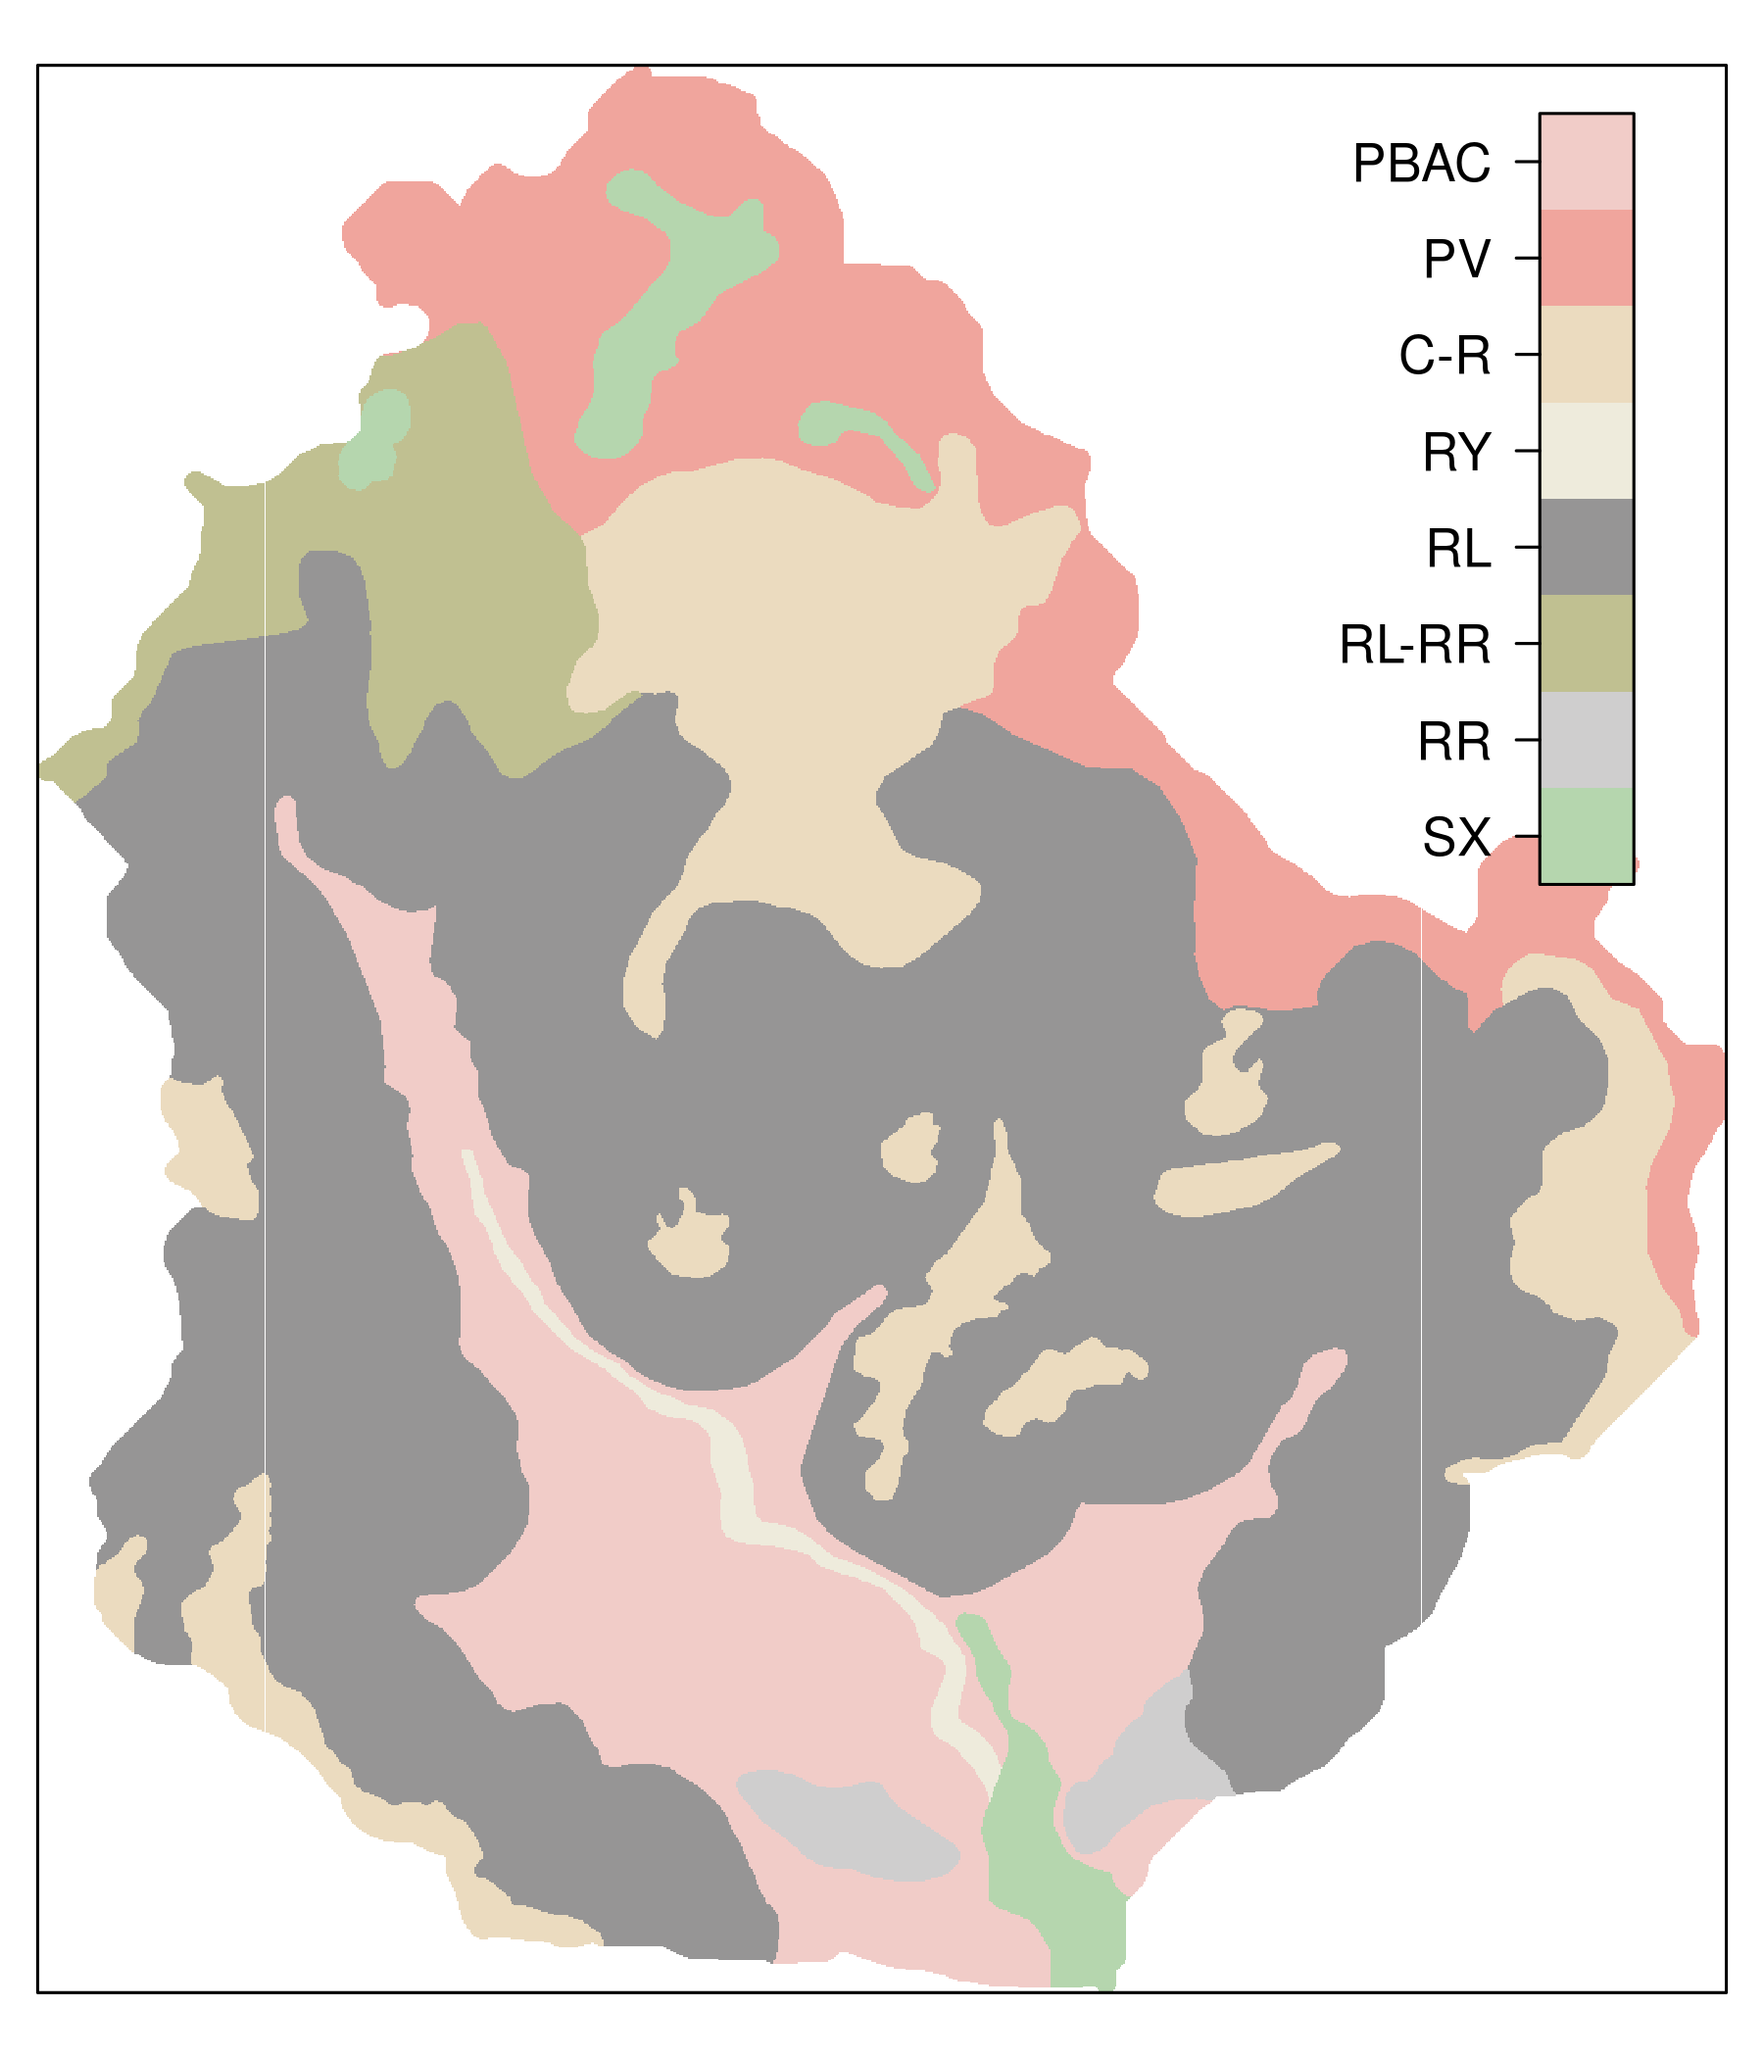
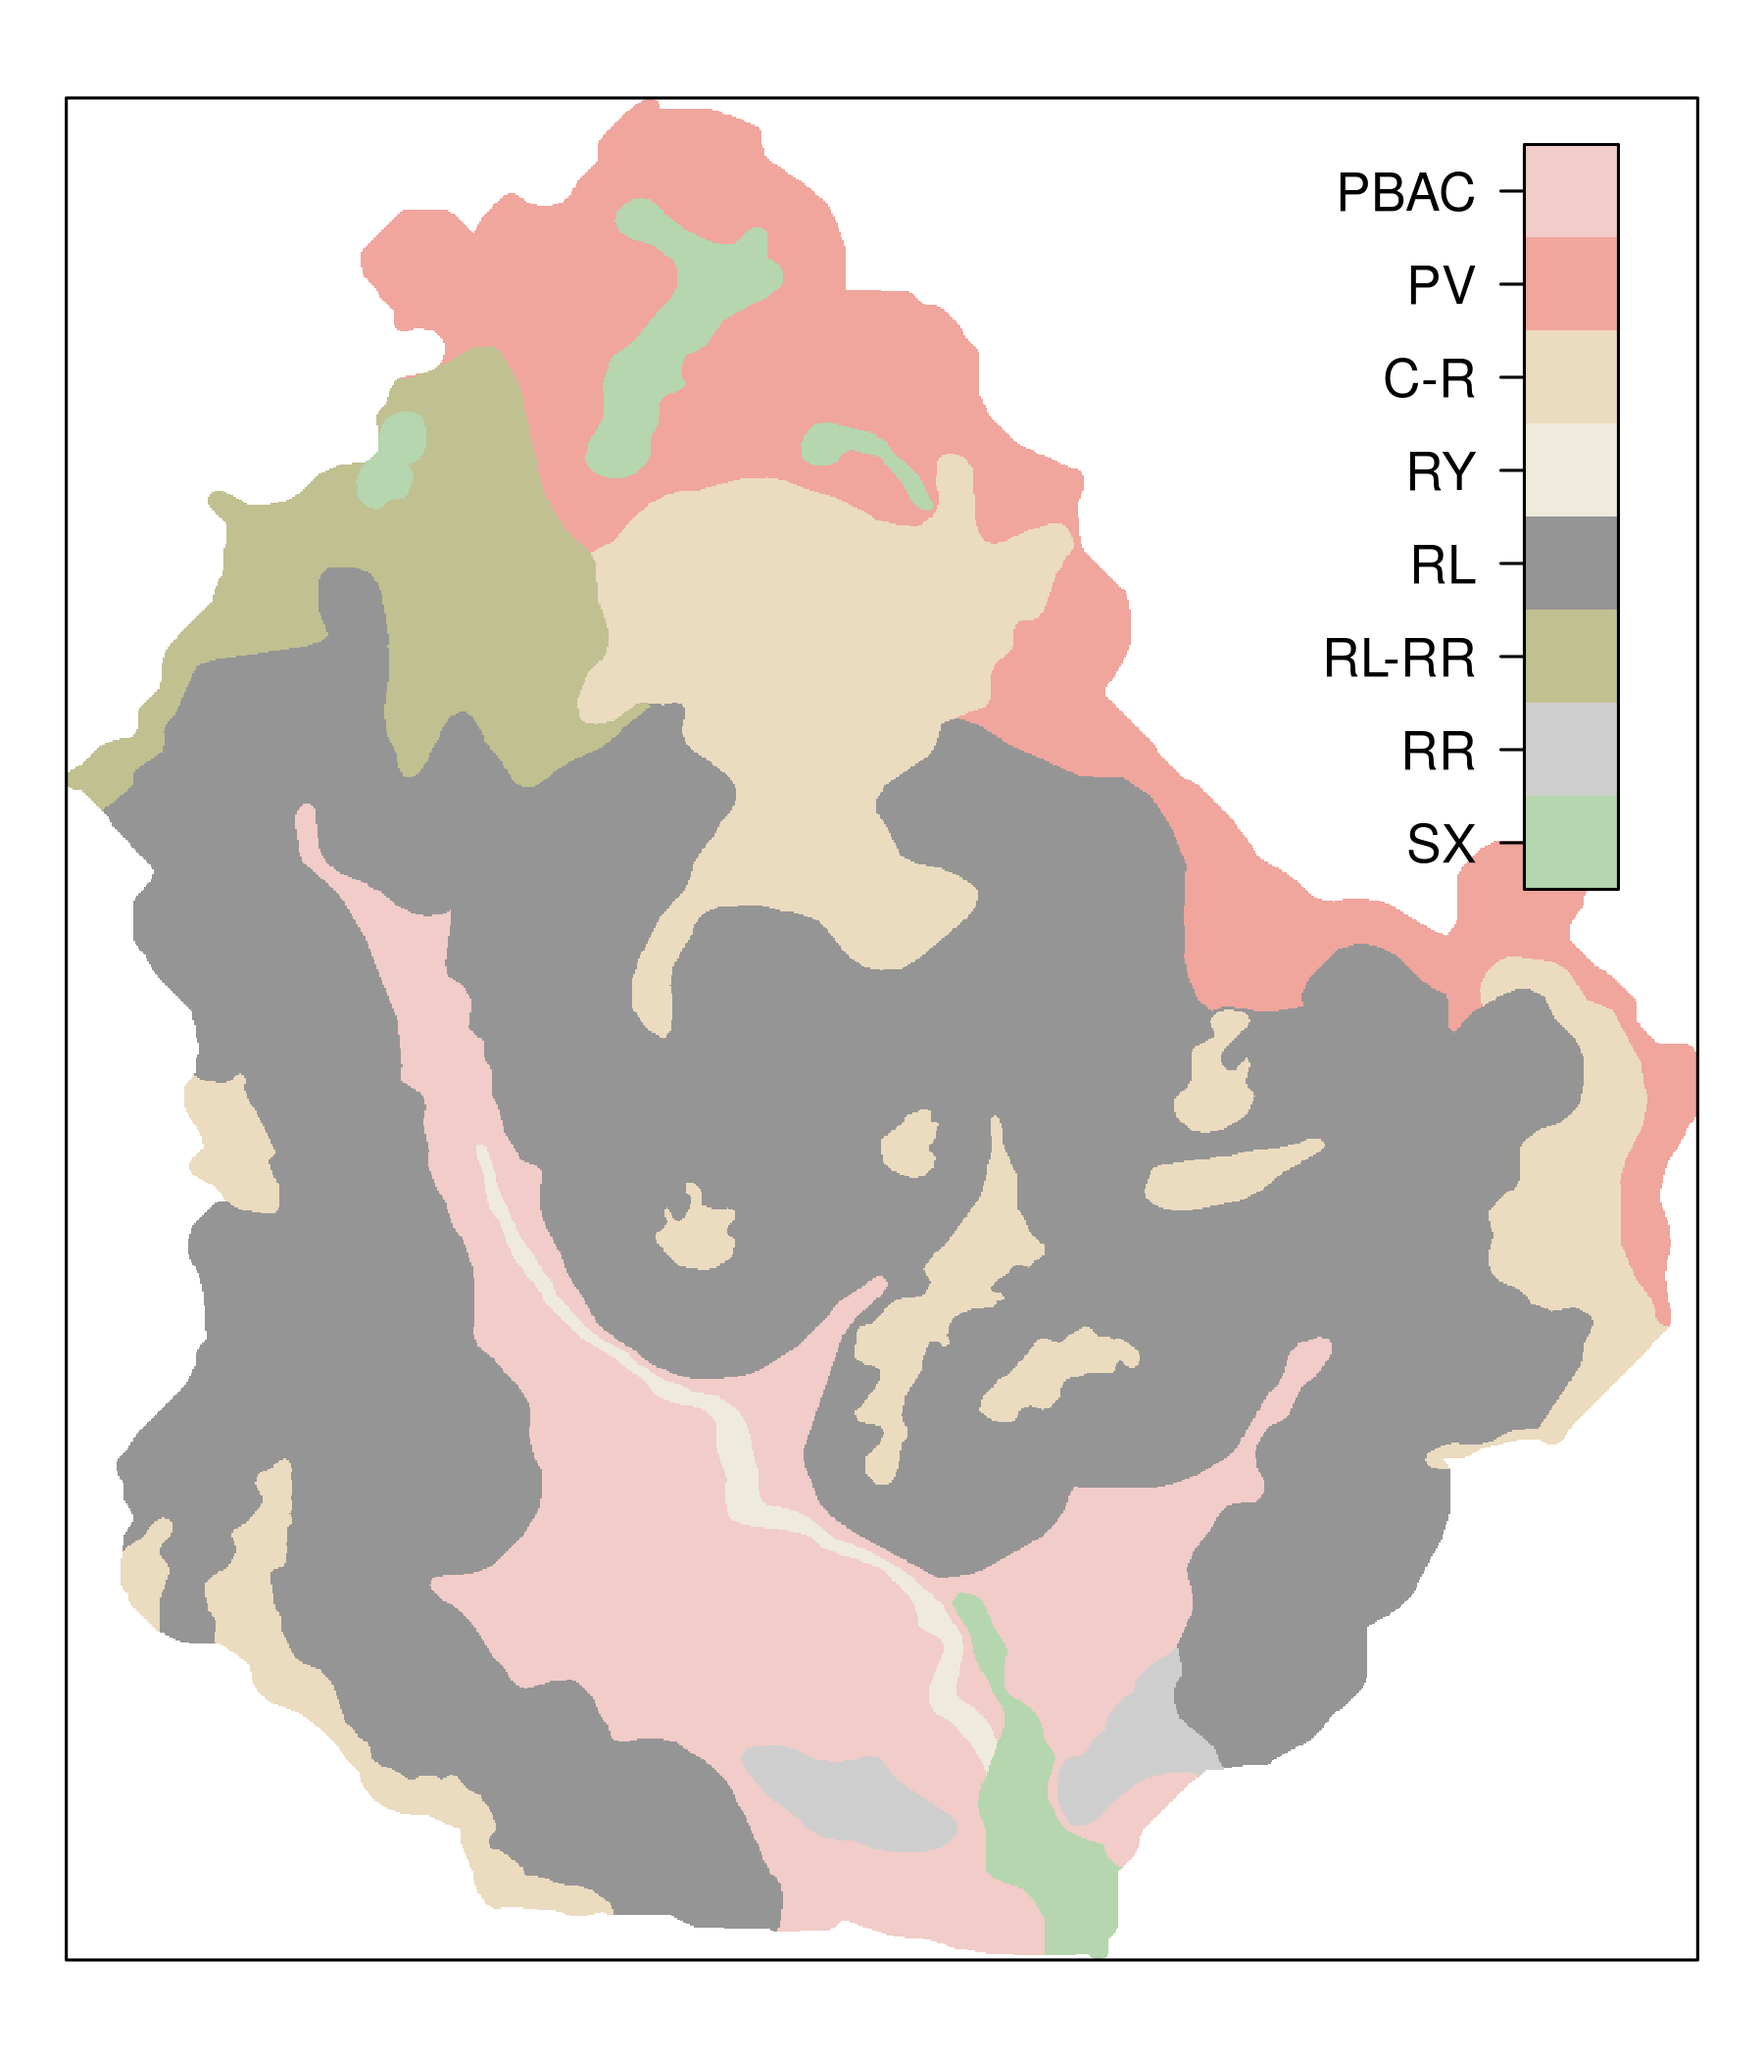
improved figures removing white lines

diff --git a/chap/chap05.tex b/chap/chap05.tex
@@ -64,13 +64,13 @@ catchment, mainly the northern sector, which has an area of \SI{\pm2000}{\hectar
 modelling various environmental features and were carried out as part of local (soil, geology, land use), 
 regional (terrain, land use), and global (terrain, land use) mapping initiatives.
 
-This manuscript presents a thorough description of the covariate data contained in the Santa Maria dataset. 
+This chapter presents a thorough description of the covariate data contained in the Santa Maria dataset. 
 These are area-class soil maps, digital elevation models, geological maps, land use maps, and satellite 
 images. A thorough description of the procedures for their production, as well as the processing methods 
-employed is given as well. The original sources of the covariate data are freely available at the producers 
-databases or in public libraries.
+employed is given. The original sources of the covariate data are freely available at the producers databases 
+or in public libraries.
 
-The manuscript is divided in seven sections. \autoref{sec:chap05-database} presents general information about 
+The chapter is divided in seven sections. \autoref{sec:chap05-database} presents general information about 
 the covariates, as well as the structure of the database where they have been stored and managed. Next, 
 \autoref{sec:chap05-gcp} describes how ground data was collected to help processing and validating the 
 existing covariate data. Area-class soil maps included in the Santa Maria dataset are described in 
